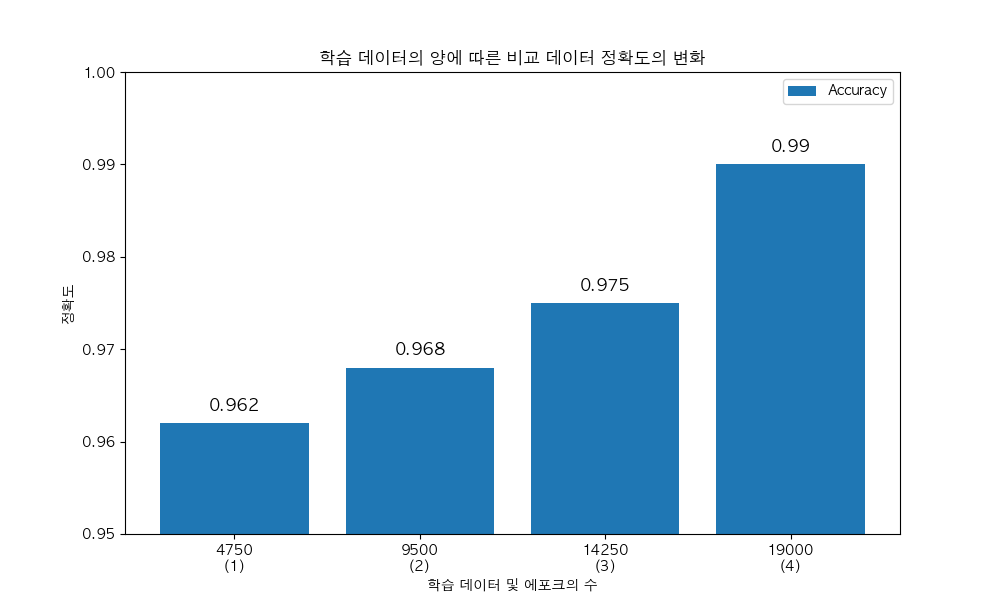
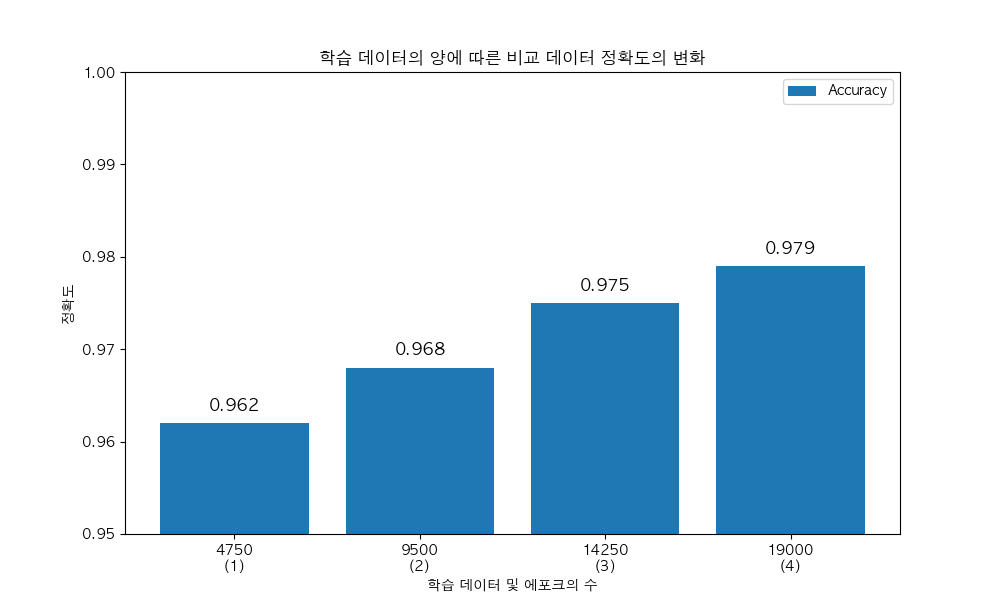
05-16 mps->cuda, 기타 사진 변경 및 readme.md 수정

Changed region(s): [[0.713, 0.21, 0.868, 0.45]]

diff --git a/MobileBERT-sample-export.py b/MobileBERT-sample-export.py
@@ -15,7 +15,6 @@ data_path = "spam_emails_remaining_filter.csv"
 df = pd.read_csv(data_path, encoding="cp949")
 
 data_X = df['text'].astype(str).tolist()
-labels = df['label'].values
 
 print(len(data_X))
 
@@ -28,9 +27,8 @@ attention_mask = inputs['attention_mask']
 batch_size = 8
 
 test_inputs = torch.tensor(input_ids)
-test_labels = torch.tensor(labels)
 test_masks = torch.tensor(attention_mask)
-test_data = torch.utils.data.TensorDataset(test_inputs, test_masks, test_labels)
+test_data = torch.utils.data.TensorDataset(test_inputs, test_masks)
 test_sampler = torch.utils.data.RandomSampler(test_data)
 test_dataloader = torch.utils.data.DataLoader(test_data, sampler=test_sampler, batch_size=batch_size)
 
@@ -39,15 +37,13 @@ model.to(device)
 
 model.eval()
 
-test_pred = []
-test_true = []
+y_pred = []
 
-for batch in tqdm(test_dataloader, desc="Inferencing Full Dataset"):
-    batch_ids, batch_mask, batch_labels = batch
+for batch in tqdm(test_dataloader, desc="Predicting the Inference Dataset"):
+    batch_ids, batch_mask = batch
 
     batch_ids = batch_ids.to(device)
     batch_mask = batch_mask.to(device)
-    batch_labels = batch_labels.to(device)
 
     with torch.no_grad():
         output = model(batch_ids, attention_mask=batch_mask)
@@ -55,8 +51,11 @@ for batch in tqdm(test_dataloader, desc="Inferencing Full Dataset"):
     logits = output.logits
     pred = torch.argmax(logits, dim=1)
 
-    test_pred.extend(pred.cpu().numpy())
-    test_true.extend(batch_labels.cpu().numpy())
+    y_pred.extend(pred.cpu().numpy())
 
-test_accuracy = np.sum(np.array(test_pred) == np.array(test_true)) / len(test_pred)
-print("전체 데이터 64,101건에 대한 스팸/정상 정확도 : ", test_accuracy)
+result_df = pd.DataFrame({"text": data_X, "label": y_pred})
+result_df = result_df[result_df["label"] == 1]
+result_df.to_csv("spam_emails_model_predict.csv", index=False)
+
+
+

diff --git a/data-topicModeling.py b/data-topicModeling.py
@@ -14,7 +14,7 @@ from nltk.corpus import stopwords
 from nltk.tokenize import word_tokenize
 
 # 데이터 불러오기
-data = pd.read_csv("spam_emails_data_filtered.csv")
+data = pd.read_csv("spam_emails_model_predict.csv")
 
 custom_stopwords = set(['escapenumber', 'escapelong'] + stopwords.words('english'))
 
@@ -29,10 +29,6 @@ def preprocess(text):
 
 # 전처리 적용
 data['clean_text'] = data['text'].apply(preprocess)
-
-# 라벨별 데이터 분리
-data_spam = data[data['label'] == 1]
-data_normal = data[data['label'] == 0]
 
 # Gensim LDA 모델링 함수
 def topic_modeling_gensim(texts, n_topics=5, html_filename="lda_vis.html"):
@@ -54,10 +50,5 @@ def topic_modeling_gensim(texts, n_topics=5, html_filename="lda_vis.html"):
 
     return lda
 
-# 스팸 토픽
-print("== 스팸 (label=1) 토픽 ==")
-lda_spam = topic_modeling_gensim(data_spam['clean_text'], n_topics=3, html_filename="spam_topics.html")
-
-# 정상 토픽
-print("\n== 정상 (label=0) 토픽 ==")
-lda_normal = topic_modeling_gensim(data_normal['clean_text'], n_topics=3, html_filename="normal_topics.html")
+print("== 토픽 ==")
+lda_spam = topic_modeling_gensim(data['clean_text'], n_topics=6, html_filename="spam_topics.html")

diff --git a/MobileBERT-Finetune-GPU.py b/MobileBERT-Finetune-GPU.py
@@ -9,10 +9,10 @@ from torch.utils.data import TensorDataset, DataLoader, RandomSampler, Sequentia
 from tqdm import tqdm
 
 # 0. GPU 있는지 확인, 없으면 CPU 구동
-# gpu = torch.cuda.is_available()
-gpu = torch.backends.mps.is_available()
+gpu = torch.cuda.is_available()
+# gpu = torch.backends.m/ps.is_available()
 
-device = torch.device("mps" if gpu else "cpu")
+device = torch.device("cuda" if gpu else "cpu")
 print("using device:", device)
 
 # 1. 학습 시 경고 메세지 제거
@@ -24,9 +24,6 @@ df = pd.read_csv(path, encoding="cp949")
 
 data_X = df['text'].astype(str).tolist()
 labels = df['label'].values
-
-data_X = data_X[:4750]
-labels = labels[:4750]
 
 print("### 데이터 샘플 ###")
 print("리뷰 문장", data_X[:5])
@@ -122,7 +119,7 @@ for e in range(epochs):
 
         loss.backward()
 
-        torch.nn.utils.clip_grad_norm(model.parameters(), 1.0)
+        torch.nn.utils.clip_grad_norm_(model.parameters(), 1.0)
         optimizer.step()
         scheduler.step()
 
